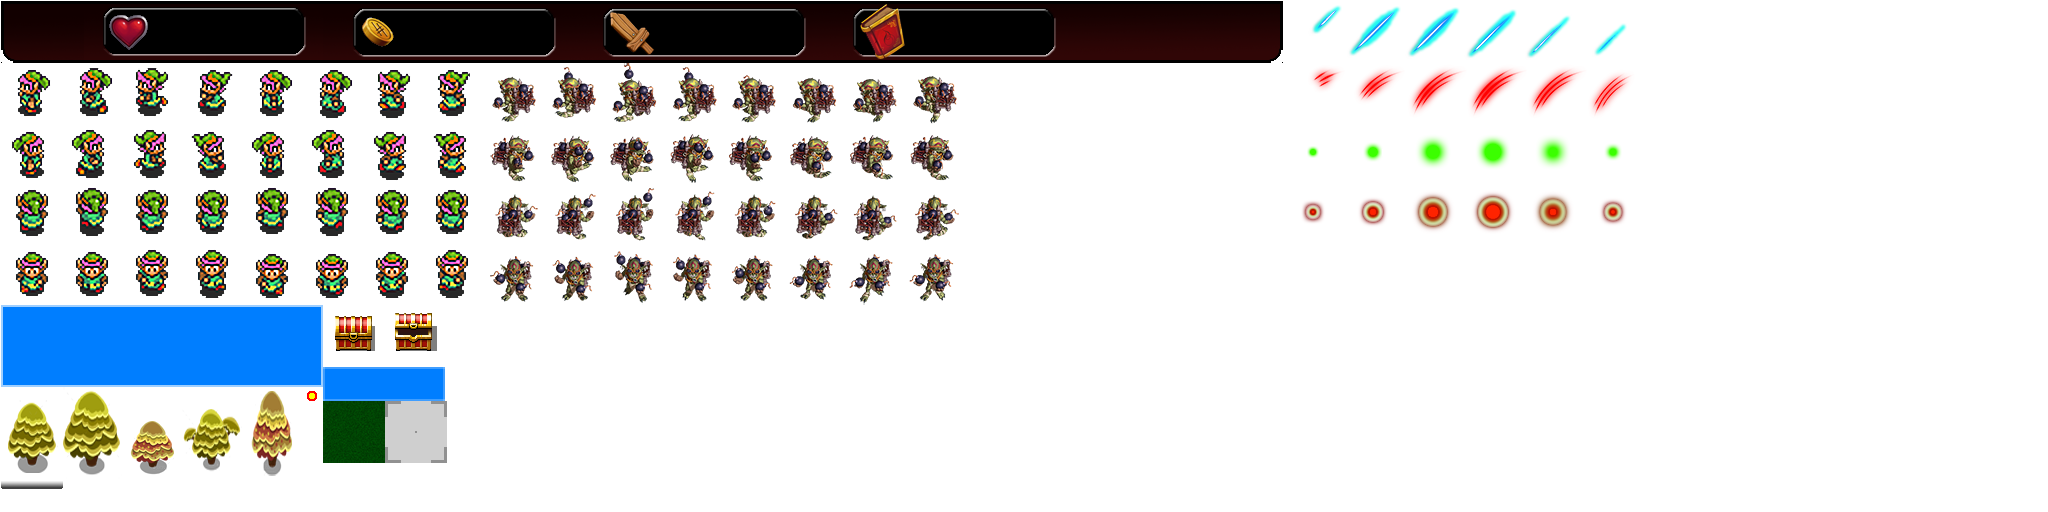
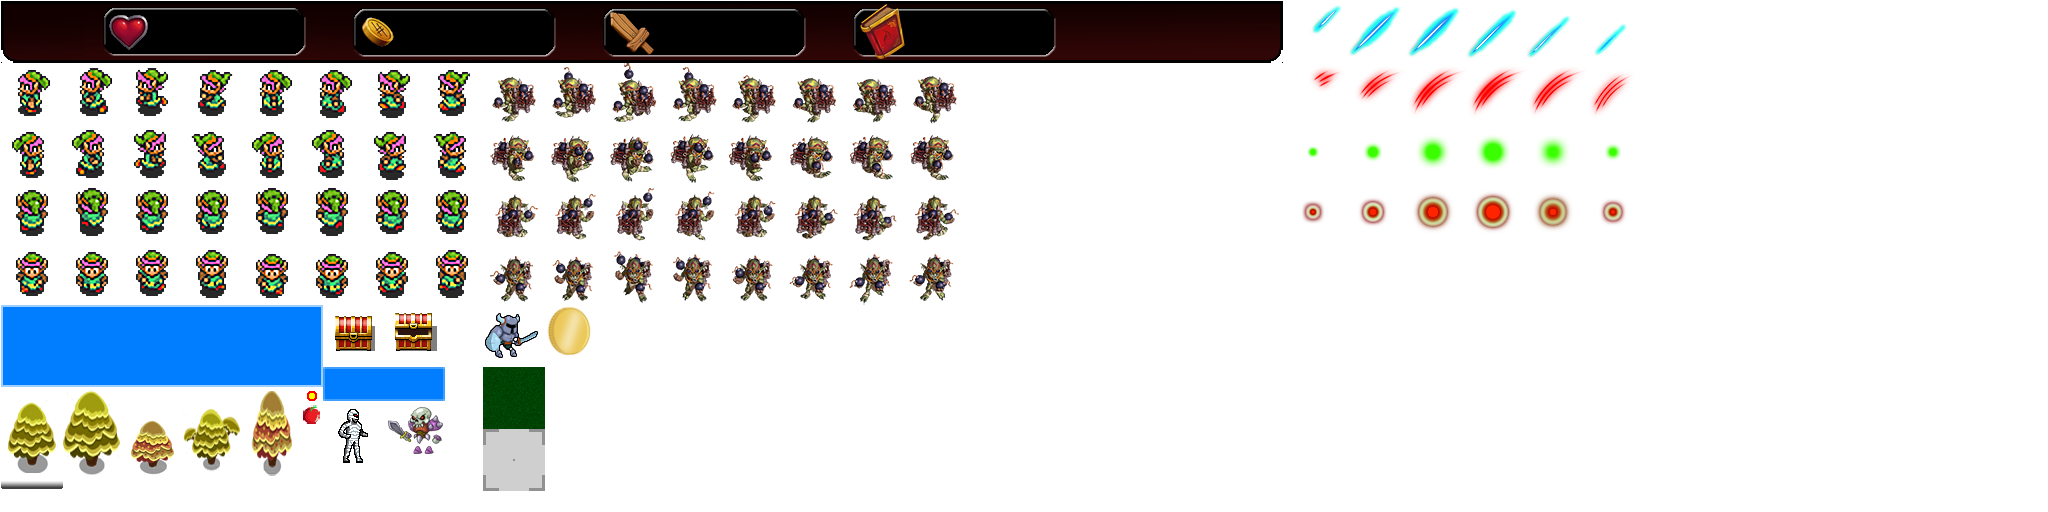
homework 8

Changed region(s): [[0.125, 0.5938, 0.3125, 0.9688]]

diff --git a/core/src/ru/geekbrains/dungeon/game/GameMap.java b/core/src/ru/geekbrains/dungeon/game/GameMap.java
@@ -5,6 +5,10 @@ import com.badlogic.gdx.graphics.g2d.TextureRegion;
 import com.badlogic.gdx.math.MathUtils;
 import ru.geekbrains.dungeon.game.units.Unit;
 import ru.geekbrains.dungeon.helpers.Assets;
+import ru.geekbrains.dungeon.helpers.Utils;
+
+import java.util.ArrayList;
+import java.util.List;
 
 public class GameMap {
     public enum CellType {
@@ -12,7 +16,7 @@ public class GameMap {
     }
 
     public enum DropType {
-        NONE, GOLD
+        NONE, GOLD, FOOD
     }
 
     private class Cell {
@@ -20,7 +24,8 @@ public class GameMap {
 
         DropType dropType;
         int dropPower;
-
+        int cellX;
+        int cellY;
         int index;
 
         public Cell() {
@@ -51,11 +56,14 @@ public class GameMap {
     }
 
     private Cell[][] data;
+    private List<Cell> freeTrees;
     private TextureRegion grassTexture;
     private TextureRegion goldTexture;
+    private TextureRegion berryTexture;
     private TextureRegion[] treesTextures;
 
     public GameMap() {
+        freeTrees = new ArrayList<>();
         this.data = new Cell[CELLS_X][CELLS_Y];
         for (int i = 0; i < CELLS_X; i++) {
             for (int j = 0; j < CELLS_Y; j++) {
@@ -64,13 +72,19 @@ public class GameMap {
         }
         int treesCount = (int) ((CELLS_X * CELLS_Y * FOREST_PERCENTAGE) / 100.0f);
         for (int i = 0; i < treesCount; i++) {
-            this.data[MathUtils.random(0, CELLS_X - 1)][MathUtils.random(0, CELLS_Y - 1)].changeType(CellType.TREE);
-
+            int tempX = MathUtils.random(0, CELLS_X - 1);
+            int tempY = MathUtils.random(0, CELLS_Y - 1);
+            Cell tempCell = this.data[tempX][tempY];
+            tempCell.changeType(CellType.TREE);
+            freeTrees.add(tempCell);
+            tempCell.cellX = tempX;
+            tempCell.cellY = tempY;
         }
 
         this.grassTexture = Assets.getInstance().getAtlas().findRegion("grass");
         this.goldTexture = Assets.getInstance().getAtlas().findRegion("chest").split(60, 60)[0][0];
         this.treesTextures = Assets.getInstance().getAtlas().findRegion("trees").split(60, 90)[0];
+        this.berryTexture = Assets.getInstance().getAtlas().findRegion("berry");
     }
 
     public boolean isCellPassable(int cx, int cy) {
@@ -94,14 +108,47 @@ public class GameMap {
     public void renderObjects(SpriteBatch batch) {
         for (int i = 0; i < CELLS_X; i++) {
             for (int j = CELLS_Y - 1; j >= 0; j--) {
-                if (data[i][j].type == CellType.TREE) {
-                    batch.draw(treesTextures[data[i][j].index], i * CELL_SIZE, j * CELL_SIZE);
+                Cell tempCell = data[i][j];
+                if (tempCell.type == CellType.TREE) {
+                    batch.draw(treesTextures[tempCell.index], i * CELL_SIZE, j * CELL_SIZE);
+                    if(tempCell.dropType.equals(DropType.FOOD)){
+                        batch.draw(berryTexture,i*CELL_SIZE+15,j*CELL_SIZE+15);
+                    }
                 }
-                if (data[i][j].dropType == DropType.GOLD) {
+                if (tempCell.dropType == DropType.GOLD) {
                     batch.draw(goldTexture, i * CELL_SIZE, j * CELL_SIZE);
                 }
             }
         }
+    }
+
+    public void addBerryToTree() {
+        if(!freeTrees.isEmpty()) {
+
+            int cellIndex = MathUtils.random(freeTrees.size() - 1);
+            Cell tempCell = freeTrees.get(cellIndex);
+            tempCell.dropType = DropType.FOOD;
+            tempCell.dropPower = 50;
+            freeTrees.remove(cellIndex);
+        }
+    }
+
+    public int takeFood(int cellX,int cellY){
+        Cell c = data[cellX][cellY];
+            c.dropType = DropType.NONE;
+            int dropPower = c.dropPower;
+            c.dropPower = 0;
+            freeTrees.add(c);
+            return dropPower;
+    }
+
+    public boolean canILootThisCell(Unit unit,int targetX,int targetY){
+        if(targetX>=0 && targetY>=0 && targetX<CELLS_X && targetY<CELLS_Y) {
+            Cell c = data[targetX][targetY];
+            return c.type.equals(CellType.TREE) && Utils.getCellsIntDistance(unit.getCellX(), unit.getCellY(), targetX, targetY) <= 1
+                    && c.dropType.equals(DropType.FOOD);
+        }
+        return false;
     }
 
     // todo: перенести в калькулятор

diff --git a/core/src/ru/geekbrains/dungeon/game/units/Hero.java b/core/src/ru/geekbrains/dungeon/game/units/Hero.java
@@ -21,9 +21,10 @@ public class Hero extends Unit {
     private Group guiGroup;
     private Label hpLabel;
     private Label goldLabel;
+    private Label satietyLabel;
 
     public Hero(GameController gc) {
-        super(gc, 1, 1, 10, "Hero");
+        super(gc, 1, 1, 1,100, "Hero");
         this.name = "Sir Lancelot";
         this.textureHp = Assets.getInstance().getAtlas().findRegion("hp");
         this.weapon = new Weapon(Weapon.Type.SPEAR, 2, 2, 0);
@@ -33,12 +34,16 @@ public class Hero extends Unit {
     public void update(float dt) {
         super.update(dt);
         if (Gdx.input.justTouched() && canIMakeAction()) {
-            Monster m = gc.getUnitController().getMonsterController().getMonsterInCell(gc.getCursorX(), gc.getCursorY());
+            int targetX = gc.getCursorX();
+            int targetY = gc.getCursorY();
+            Monster m = gc.getUnitController().getMonsterController().getMonsterInCell(targetX, targetY);
             if (m != null && canIAttackThisTarget(m, 1)) {
                 attack(m);
-            } else {
+            }else
+            if(gc.getGameMap().canILootThisCell(this,targetX,targetY)){
+                addFood(gc.getGameMap().takeFood(targetX,targetY));
+            }else
                 goTo(gc.getCursorX(), gc.getCursorY());
-            }
         }
         if (Gdx.input.isKeyJustPressed(Input.Keys.SPACE)) {
             tryToEndTurn();
@@ -54,6 +59,11 @@ public class Hero extends Unit {
 
     public void updateGui() {
         stringHelper.setLength(0);
+        stringHelper.append("satiety:\n");
+        stringHelper.append(stats.satiety);
+        satietyLabel.setText(stringHelper);
+
+        stringHelper.setLength(0);
         stringHelper.append(stats.hp).append(" / ").append(stats.maxHp);
         hpLabel.setText(stringHelper);
 
@@ -67,13 +77,18 @@ public class Hero extends Unit {
         Skin skin = new Skin();
         skin.addRegions(Assets.getInstance().getAtlas());
         BitmapFont font24 = Assets.getInstance().getAssetManager().get("fonts/font24.ttf");
+        BitmapFont font18 = Assets.getInstance().getAssetManager().get("fonts/font18.ttf");
         Label.LabelStyle labelStyle = new Label.LabelStyle(font24, Color.WHITE);
+        Label.LabelStyle labelStyle2 = new Label.LabelStyle(font18, Color.WHITE);
+        this.satietyLabel = new Label("",labelStyle2);
         this.hpLabel = new Label("", labelStyle);
         this.goldLabel = new Label("", labelStyle);
+        this.satietyLabel.setPosition(15,30);
         this.hpLabel.setPosition(155, 30);
         this.goldLabel.setPosition(400, 30);
         Image backgroundImage = new Image(Assets.getInstance().getAtlas().findRegion("upperPanel"));
         this.guiGroup.addActor(backgroundImage);
+        this.guiGroup.addActor(satietyLabel);
         this.guiGroup.addActor(hpLabel);
         this.guiGroup.addActor(goldLabel);
         this.guiGroup.setPosition(0, ScreenManager.WORLD_HEIGHT - 60);

diff --git a/core/src/ru/geekbrains/dungeon/game/units/Unit.java b/core/src/ru/geekbrains/dungeon/game/units/Unit.java
@@ -76,8 +76,17 @@ public abstract class Unit implements Poolable {
     }
 
     public Unit(GameController gc, int cellX, int cellY, int hpMax, String textureName) {
-        this.gc = gc;
         this.stats = new Stats(1, hpMax, 1, 5, 1, 5);
+        init(gc, cellX, cellY, hpMax, textureName);
+    }
+
+    public Unit(GameController gc, int cellX, int cellY, int hpMax, int maxSatiety, String textureName) {
+        this.stats = new Stats(1, hpMax, 1, 5, 1, 5,maxSatiety);
+        init(gc,cellX,cellY,hpMax,textureName);
+    }
+
+    private void init(GameController gc, int cellX, int cellY, int hpMax, String textureName) {
+        this.gc = gc;
         this.cellX = cellX;
         this.cellY = cellY;
         this.targetX = cellX;
@@ -95,7 +104,10 @@ public abstract class Unit implements Poolable {
     public void addGold(int amount) {
         gold += amount;
     }
-
+    public void addFood(int amount){
+        stats.satiety += amount;
+        if(stats.satiety>stats.maxSatiety) stats.satiety = stats.maxSatiety;
+    }
     public void cure(int amount) {
         stats.restoreHp(amount);
     }
@@ -156,7 +168,6 @@ public abstract class Unit implements Poolable {
         return stats.attackPoints >= cost && (cellX - target.getCellX() == 0 && Math.abs(cellY - target.getCellY()) <= weapon.getRadius() ||
                 cellY - target.getCellY() == 0 && Math.abs(cellX - target.getCellX()) <= weapon.getRadius());
     }
-
     public void attack(Unit target) {
         currentDirection = Direction.getMoveDirection(cellX, cellY, target.cellX, target.cellY);
         target.takeDamage(this, BattleCalc.attack(this, target));
@@ -168,8 +179,15 @@ public abstract class Unit implements Poolable {
             }
         }
         stats.attackPoints--;
+        if(this.equals(gc.getUnitController().getHero())) {
+            satietyLoss();
+        }
 
         gc.getEffectController().setup(target.getCellCenterX(), target.getCellCenterY(), weapon.getFxIndex());
+    }
+    public void satietyLoss(){
+        if(stats.satiety<=0) stats.hp--;
+        else stats.satiety--;
     }
 
     public void update(float dt) {
@@ -182,6 +200,9 @@ public abstract class Unit implements Poolable {
                 cellX = targetX;
                 cellY = targetY;
                 stats.movePoints--;
+                if(this.equals(gc.getUnitController().getHero())) {
+                    satietyLoss();
+                }
                 gc.getGameMap().checkAndTakeDrop(this);
             }
         }

diff --git a/core/src/ru/geekbrains/dungeon/screens/ScreenManager.java b/core/src/ru/geekbrains/dungeon/screens/ScreenManager.java
@@ -12,7 +12,7 @@ import ru.geekbrains.dungeon.helpers.Assets;
 
 public class ScreenManager {
     public enum ScreenType {
-        MENU, GAME
+        MENU, GAME, GAME_OVER
     }
 
     public static final int WORLD_WIDTH = 1280;
@@ -85,14 +85,23 @@ public class ScreenManager {
         Gdx.input.setInputProcessor(null);
         game.setScreen(loadingScreen);
         switch (type) {
-            case MENU:
+            case MENU: {
                 targetScreen = menuScreen;
+                String title = "Dungeon";
+                menuScreen.setTitle(title);
                 Assets.getInstance().loadAssets(ScreenType.MENU);
                 break;
+            }
             case GAME:
                 targetScreen = gameScreen;
                 Assets.getInstance().loadAssets(ScreenType.GAME);
                 break;
+            case GAME_OVER: {
+                targetScreen = menuScreen;
+                String title = "Game Over";
+                menuScreen.setTitle(title);
+                Assets.getInstance().loadAssets(ScreenType.MENU);
+            }
         }
     }
 

diff --git a/core/src/ru/geekbrains/dungeon/game/units/Stats.java b/core/src/ru/geekbrains/dungeon/game/units/Stats.java
@@ -9,9 +9,20 @@ public class Stats {
     int hp, maxHp;
     int attackPoints, minAttackPoints, maxAttackPoints;
     int movePoints, minMovePoints, maxMovePoints;
+    int satiety, maxSatiety;
     int visionRadius;
 
     public Stats(int level, int maxHp, int minAttackPoints, int maxAttackPoint, int minMovePoints, int maxMovePoint) {
+        init(level, maxHp, minAttackPoints, maxAttackPoint, minMovePoints, maxMovePoint);
+    }
+
+    public Stats(int level, int maxHp, int minAttackPoints, int maxAttackPoint, int minMovePoints, int maxMovePoint, int maxSatiety) {
+        init(level, maxHp, minAttackPoints, maxAttackPoint, minMovePoints, maxMovePoint);
+        this.maxSatiety = maxSatiety;
+        this.satiety = this.maxSatiety;
+    }
+
+    private void init(int level, int maxHp, int minAttackPoints, int maxAttackPoint, int minMovePoints, int maxMovePoint) {
         this.level = level;
         this.maxHp = maxHp;
         this.hp = this.maxHp;

diff --git a/core/src/ru/geekbrains/dungeon/screens/MenuScreen.java b/core/src/ru/geekbrains/dungeon/screens/MenuScreen.java
@@ -24,6 +24,11 @@ public class MenuScreen extends AbstractScreen {
     private Stage stage;
     private BitmapFont font72;
     private BitmapFont font36;
+    private String title;
+
+    public void setTitle(String title) {
+        this.title = title;
+    }
 
     public MenuScreen(SpriteBatch batch) {
         super(batch);
@@ -42,7 +47,7 @@ public class MenuScreen extends AbstractScreen {
         Gdx.gl.glClearColor(0, 0, 0.4f, 1);
         Gdx.gl.glClear(GL20.GL_COLOR_BUFFER_BIT);
         batch.begin();
-        font72.draw(batch, "Dungeon", 0, 500, 1280, Align.center, false);
+        font72.draw(batch, title, 0, 500, 1280, Align.center, false);
         batch.end();
         stage.draw();
     }

diff --git a/core/src/ru/geekbrains/dungeon/game/UnitController.java b/core/src/ru/geekbrains/dungeon/game/UnitController.java
@@ -7,6 +7,7 @@ import lombok.Data;
 import ru.geekbrains.dungeon.game.units.Hero;
 import ru.geekbrains.dungeon.game.units.Monster;
 import ru.geekbrains.dungeon.game.units.Unit;
+import ru.geekbrains.dungeon.screens.ScreenManager;
 
 import java.util.ArrayList;
 import java.util.List;
@@ -73,7 +74,11 @@ public class UnitController {
     }
 
     public void update(float dt) {
+        if(hero.getStats().getHp()<=0){
+            ScreenManager.getInstance().changeScreen(ScreenManager.ScreenType.GAME_OVER);
+        }
         hero.update(dt);
+
         monsterController.update(dt);
 
         if (!currentUnit.isActive() || !currentUnit.getStats().doIHaveAnyPoints()) {

diff --git a/core/src/ru/geekbrains/dungeon/game/GameController.java b/core/src/ru/geekbrains/dungeon/game/GameController.java
@@ -74,6 +74,9 @@ public class GameController {
         if (round % 3 == 0) {
             unitController.createMonsterInRandomCell();
         }
+        if(round % 5 == 0){
+            gameMap.addBerryToTree();
+        }
     }
 
     public boolean isCellEmpty(int cx, int cy) {
